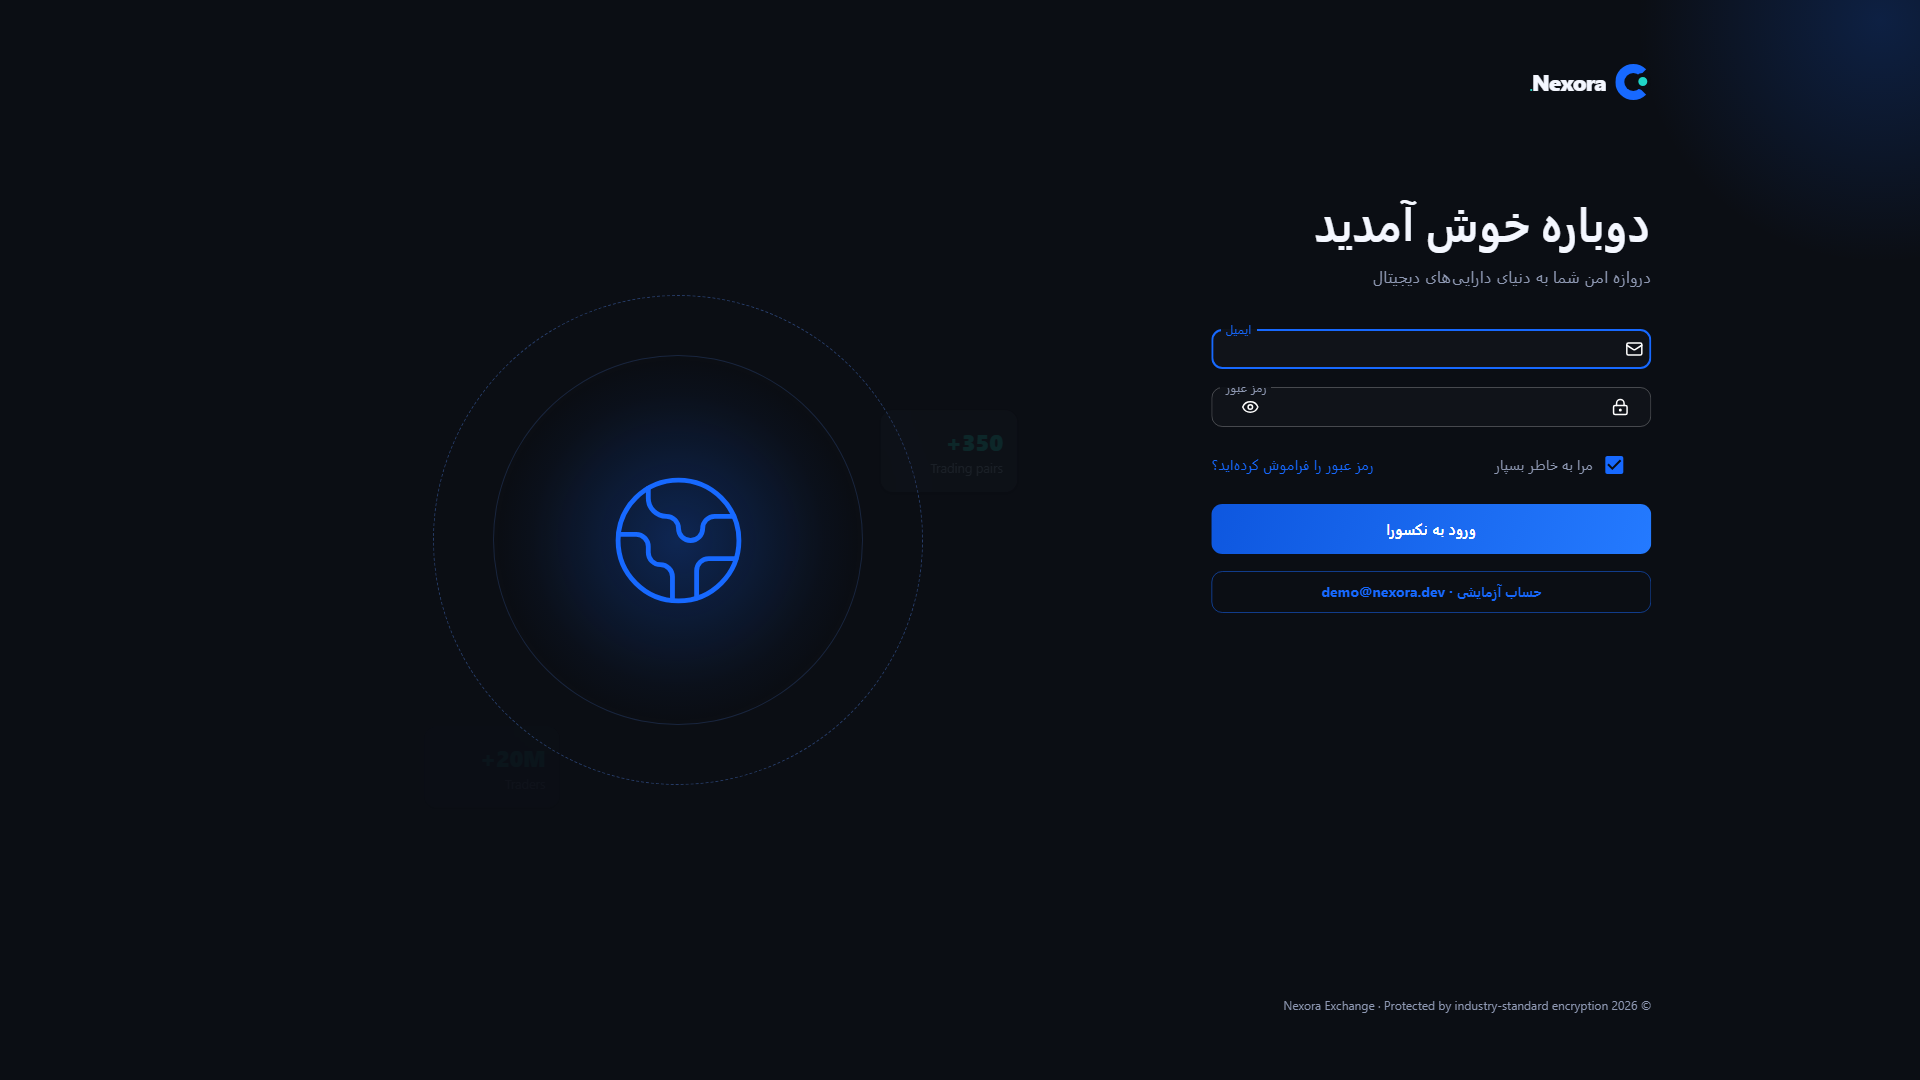
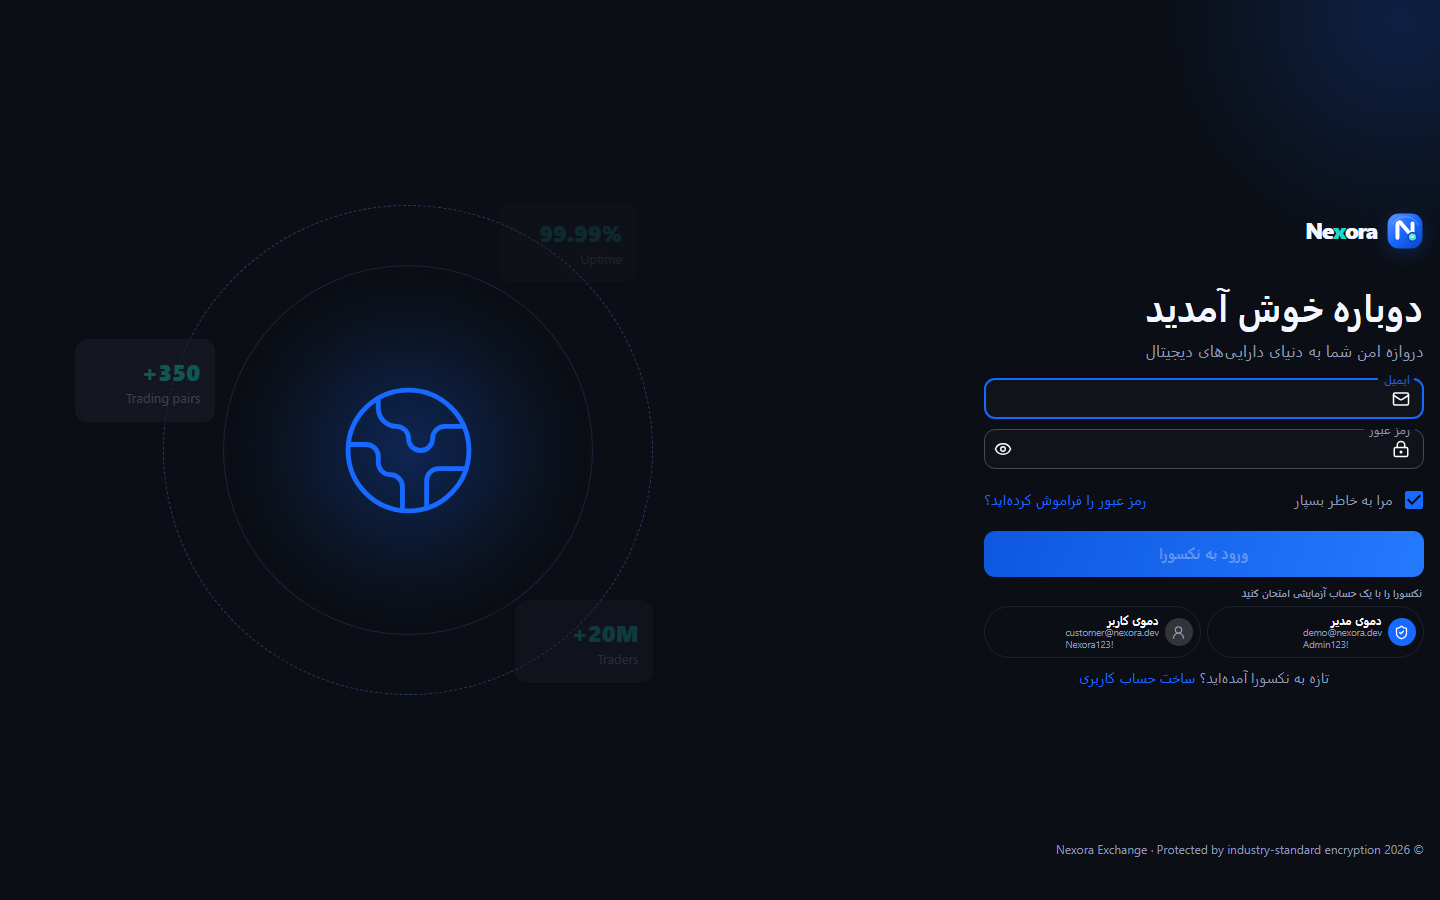
docs: add refreshed product screenshots

diff --git a/README.md b/README.md
@@ -8,10 +8,16 @@ This repository contains the web client and its automated tests. The backend is 
 
 ## Product preview
 
-![Nexora portfolio dashboard](docs/assets/dashboard.png)
+| Portfolio dashboard                                      | Trading workspace                                    |
+| -------------------------------------------------------- | ---------------------------------------------------- |
+| ![Nexora portfolio dashboard](docs/assets/dashboard.png) | ![Nexora trading workspace](docs/assets/trading.png) |
+
+| Administration overview                                           | Account registration                                    |
+| ----------------------------------------------------------------- | ------------------------------------------------------- |
+| ![Nexora administration overview](docs/assets/admin-overview.png) | ![Nexora registration screen](docs/assets/register.png) |
 
 <details>
-<summary>Authentication screen</summary>
+<summary>View the sign-in experience</summary>
 
 ![Nexora authentication screen](docs/assets/login.png)
 
@@ -56,7 +62,7 @@ flowchart LR
   UI[React UI and routing] --> Hooks[Feature hooks]
   Hooks --> Query[TanStack Query]
   Query --> API[Typed API adapters]
-  API --> Gateway[/api and /ws]
+  API --> Gateway["HTTP and WebSocket gateway: /api · /ws"]
   Store[Redux startup preference cache] --> UI
   Query -->|hydrates authenticated preferences| Store
   I18n[i18next and direction] --> UI

diff --git a/docs/README.md b/docs/README.md
@@ -22,6 +22,7 @@ The companion backend has its own lifecycle and repository: [`HmdAK19/nexora-api
 - Security controls that require server enforcement are described as backend requirements, never as guarantees provided by hidden UI.
 - Example payloads are illustrative and must not contain real credentials, personal data or secrets.
 - Screenshots use deterministic synthetic data and contain no customer information.
+- Regenerate product screenshots from a local production preview with `npm run docs:screenshots`.
 
 ## Keeping documentation current
 
